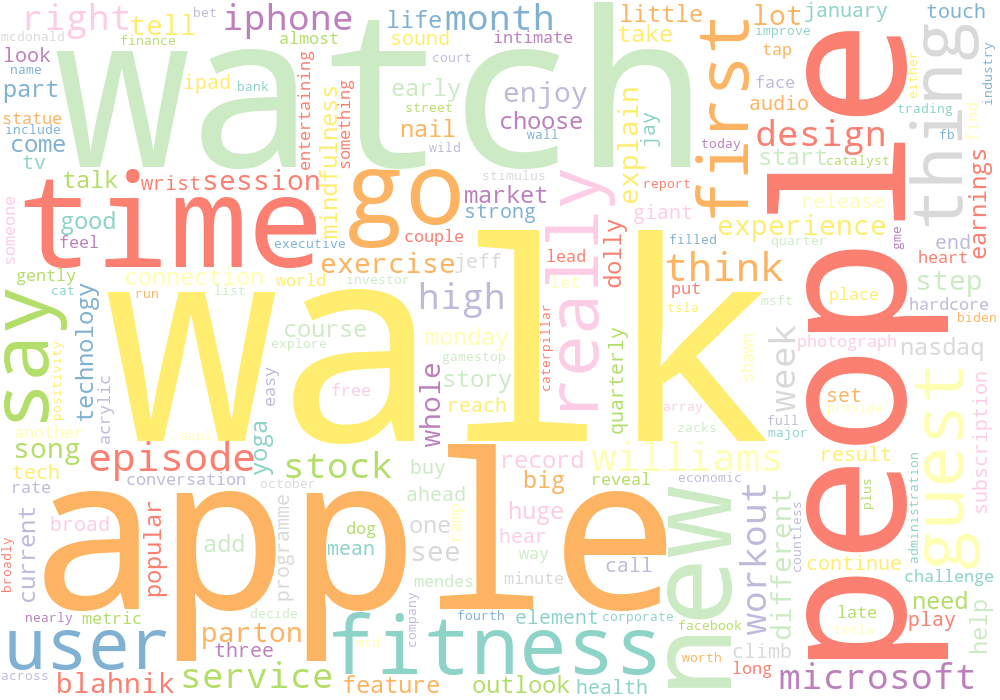
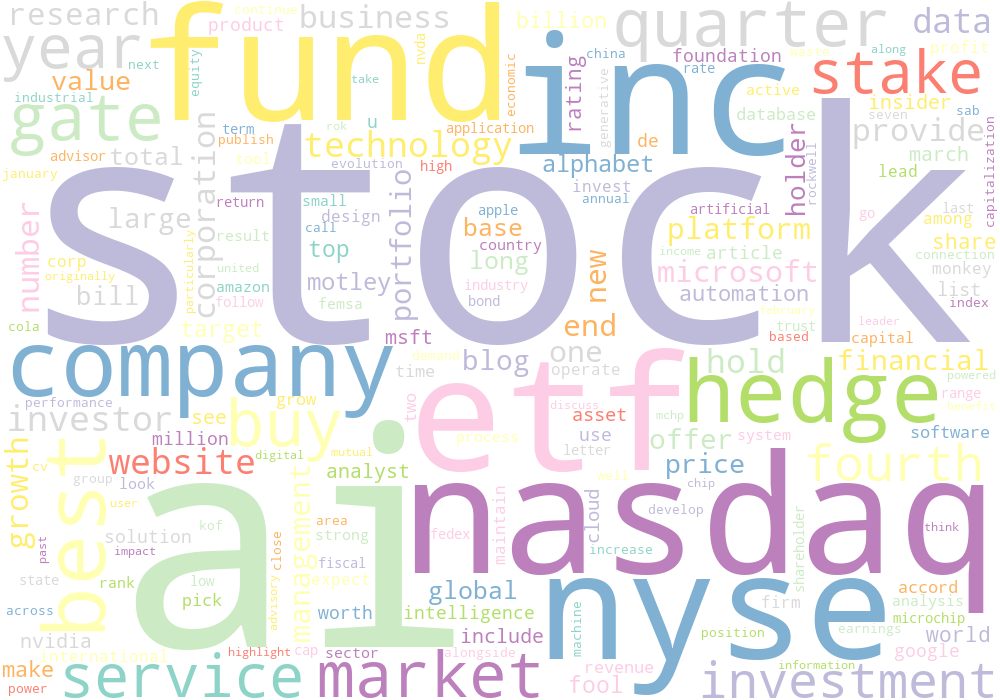
Integrated text analyzer into stock analysis

diff --git a/analyze.py b/analyze.py
@@ -109,50 +109,50 @@ def cleanseWordList(posTaggedWordTuples):
 			cleansedWords.append(wordLemmatizer.lemmatize(cleansedWord, treebankPosToWordnetPos(pos)))
 	return cleansedWords
 
-# Get User Details
-welcomeUser()
-username = getUsername()
-greetUser(username)
+def analyzeText(textToAnalyze):
+	articleSentences = tokenizeSentences(textToAnalyze)
+	articleWords = tokenizeWords(articleSentences)
 
-# Extract and Tokenize Text
-articleTextRaw = getArticleText()
-articleSentences = tokenizeSentences(articleTextRaw)
-articleWords = tokenizeWords(articleSentences)
+	# Get Sentence Analytics
+	stockSearchPattern = "[0-9]|[%$€£]|thousand|million|billion|trillion|profit|loss"
+	keySentences = extractKeySentences(articleSentences, stockSearchPattern)
+	wordsPerSentence = getWordsPerSentence(articleSentences)
 
-# Get Sentence Analytics
-stockSearchPattern = "[0-9]|[%$€£]|thousand|million|billion|trillion|profit|loss"
-keySentences = extractKeySentences(articleSentences, stockSearchPattern)
-wordsPerSentence = getWordsPerSentence(articleSentences)
+	# Get Word Analytics
+	wordsPosTagged = nltk.pos_tag(articleWords)
+	articleWordsCleansed = cleanseWordList(wordsPosTagged)
 
-# Get Word Analytics
-wordsPosTagged = nltk.pos_tag(articleWords)
-articleWordsCleansed = cleanseWordList(wordsPosTagged)
+	# Generate word cloud
+	separator = " "
+	wordCloudFilePath = "results/wordcloud.png"
+	wordcloud = WordCloud(width = 1000, height = 700, \
+		background_color="white", colormap="Set3", collocations=False).generate(separator.join(articleWordsCleansed))
+	wordcloud.to_file(wordCloudFilePath)
 
-# Generate word cloud
-separator = " "
-wordCloudFilePath = "results/wordcloud.png"
-wordcloud = WordCloud(width = 1000, height = 700, \
-	background_color="white", colormap="Set3", collocations=False).generate(separator.join(articleWordsCleansed))
-wordcloud.to_file(wordCloudFilePath)
+	# Run Sentiment Analysis
+	sentimentResult = sentimentAnalyzer.polarity_scores(textToAnalyze)
 
-# Run Sentiment Analysis
-sentimentResult = sentimentAnalyzer.polarity_scores(articleTextRaw)
-
-# Collate analyses into one dictionary
-finalResult = {
-	"username": username,
-	"data": {
-		"keySentences": keySentences,
-		"wordsPerSentence": round(wordsPerSentence, 1),
-		"sentiment": sentimentResult,
-		"wordCloudFilePath": wordCloudFilePath
-	},
-	"metadata": {
-		"sentencesAnalyzed": len(articleSentences),
-		"wordsAnalyzed": len(articleWordsCleansed)
+	# Collate analyses into one dictionary
+	finalResult = {
+		"data": {
+			"keySentences": keySentences,
+			"wordsPerSentence": round(wordsPerSentence, 1),
+			"sentiment": sentimentResult,
+			"wordCloudFilePath": wordCloudFilePath
+		},
+		"metadata": {
+			"sentencesAnalyzed": len(articleSentences),
+			"wordsAnalyzed": len(articleWordsCleansed)
+		}
 	}
-}
-finalResultJson = json.dumps(finalResult, indent=4)
+	return finalResult
 
-# Print for testing
-print(finalResultJson)
+def runAsFile():
+	# Get User Details
+	welcomeUser()
+	username = getUsername()
+	greetUser(username)
+
+	# Extract and Tokenize Text
+	articleTextRaw = getArticleText()
+	analyzeText(articleTextRaw)

diff --git a/stockAnalyze.py b/stockAnalyze.py
@@ -1,7 +1,9 @@
+import json
 import yfinance as yf
 import requests
 from datetime import datetime
 from bs4 import BeautifulSoup
+import analyze
 
 def extractBasicInfo(data):
 	keysToExtract = [ 'longName', 'website', 'sector', 'fullTimeEmployees', 'marketCap', 'totalRevenue', 'trailingEps' ]
@@ -71,6 +73,10 @@ def getCompanyStockInfo(tickerSymbol):
 	futureEarningsDates = getEarningsDates(company)
 	newsArticles = getCompanyNews(company)
 	newsArticlesAllText = extractCompanyNewsArticles(newsArticles)
-	print(newsArticlesAllText)
+	newsTextAnalysis = analyze.analyzeText(newsArticlesAllText)
+
+	finalResultJson = json.dumps(newsTextAnalysis, indent=4)
+	# Print for testing
+	print(finalResultJson)
 
 getCompanyStockInfo('MSFT')
